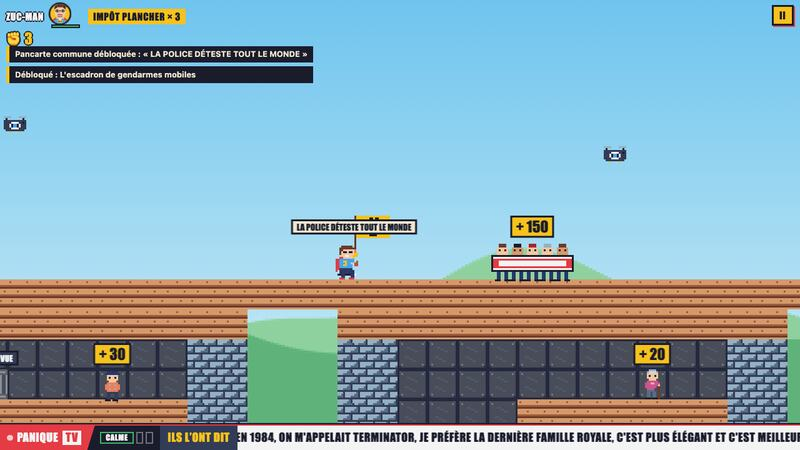
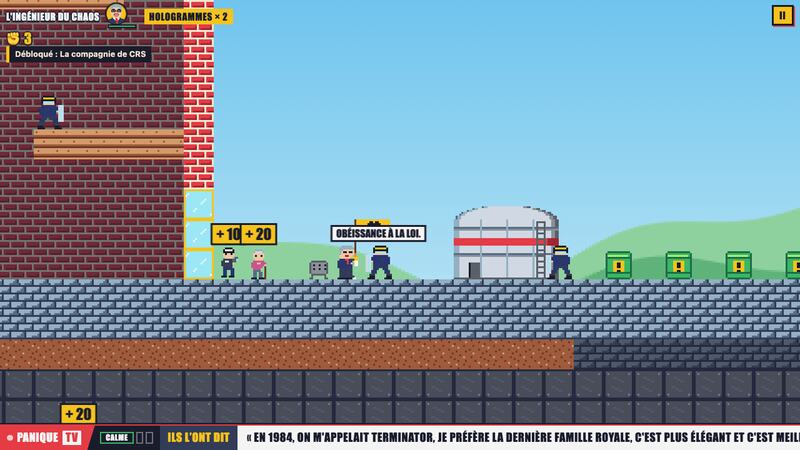
docs: une cuve reconnaissable sur la capture de la raffinerie
Les trois cuves du parc sont bâties en tuiles (coque de pierre, toit de
planches) et ne se lisent pas comme des cuves à l'échelle du jeu. La capture
montre la cuve dessinée du dépôt de carburant, ses tonneaux et la colonne de
distillation, dans le vrai jeu. La légende du README le dit.

diff --git a/README.md b/README.md
@@ -32,7 +32,7 @@ Un run-and-gun en pixel art où vous incarnez l'ultragauche telle que les platea
 | ![Millevaches : la base sous le rond-point](docs/captures/millevaches-base.jpg) | ![Millevaches : la grange et sa cave](docs/captures/millevaches-grange.jpg) |
 | ![Millevaches : la mine](docs/captures/millevaches-mine.jpg) | ![Millevaches : le château d'eau](docs/captures/millevaches-chateau-d-eau.jpg) |
 | ![Millevaches : la méga-bassine](docs/captures/millevaches-bassine.jpg) | ![Millevaches : l'hélicoptère](docs/captures/millevaches-helicoptere.jpg) |
-| ![Le rond-point : le péage levé](docs/captures/rond-point-peage.jpg) | ![La raffinerie bloquée : sur les cuves](docs/captures/raffinerie-cuves.jpg) |
+| ![Le rond-point : le péage levé](docs/captures/rond-point-peage.jpg) | ![La raffinerie bloquée : la cuve du dépôt de carburant](docs/captures/raffinerie-cuves.jpg) |
 | ![Le siège de la chaîne d'info : la régie](docs/captures/chaine-info-regie.jpg) | ![Le soir du 49.3 : devant l'Assemblée](docs/captures/soir-du-49-3-assemblee.jpg) |
 | ![Une équipe télé filme la poubelle qui brûle](docs/captures/feu-de-poubelle.jpg) | ![PANIQUE TV en pleine hystérie](docs/captures/panique-bandeau.jpg) |
 | ![Le duplex de BFM-TV](docs/captures/duplex-bfm.jpg) | ![La fortune, à l'échelle](docs/captures/taxe-fortune.jpg) |
